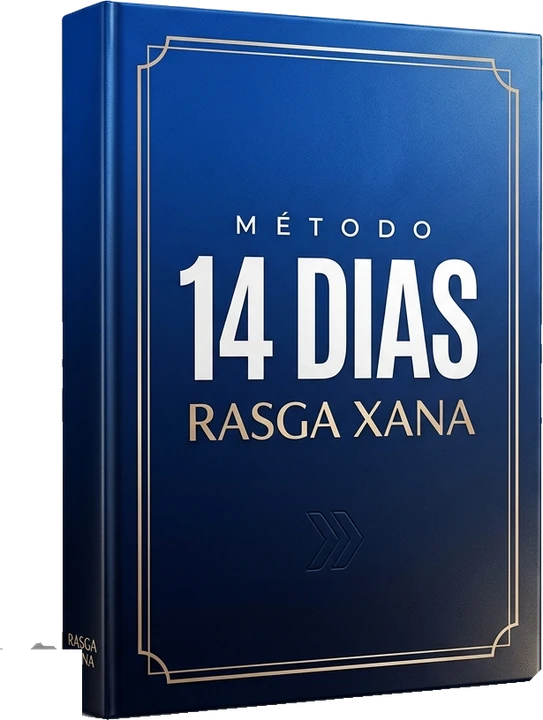
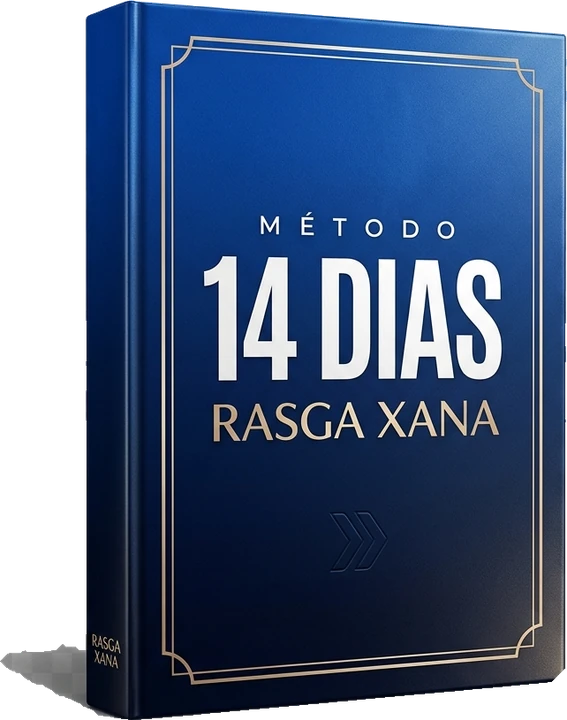
PV: callout e título p/ Método Rasga Xana + capa do ebook limpa (maior componente)

Changed region(s): [[0.0, 0.0, 0.9724, 1.0], [0.8545, 0.9472, 0.9134, 0.9778], [0.5893, 0.7028, 0.6483, 0.7333]]

diff --git a/pv/index.html b/pv/index.html
@@ -4,7 +4,7 @@
 <meta charset="UTF-8">
 <meta name="viewport" content="width=device-width, initial-scale=1.0">
 <meta name="theme-color" content="#1060F0">
-<title>Método 14 Dias — Rasga Xana</title>
+<title>Método Rasga Xana</title>
 <meta name="description" content="O treino de 5 minutos por dia que devolve controle e firmeza em 14 dias — em casa, sem remédio e sem efeito colateral.">
 
 <!-- [PIXEL] Meta Pixel / Utmify entram aqui quando o funil tiver tracking (não copiar os IDs do Reconexão Materna) -->
@@ -254,7 +254,7 @@
   <div class="wrap">
     <div class="warn">
       <img src="../imagens/img11.webp" alt="Alerta sobre riscos de comprimidos de efeito rápido">
-      <p><b>Remédio não treina nada.</b> A pílula força uma solução temporária e cobra caro do coração. O Método 14 Dias vai na raiz: fortalece o músculo pra você não depender de nada.</p>
+      <p><b>Remédio não treina nada.</b> A pílula força uma solução temporária e cobra caro do coração. O Método Rasga Xana vai na raiz: fortalece o músculo pra você não depender de nada.</p>
     </div>
   </div>
 </section>
